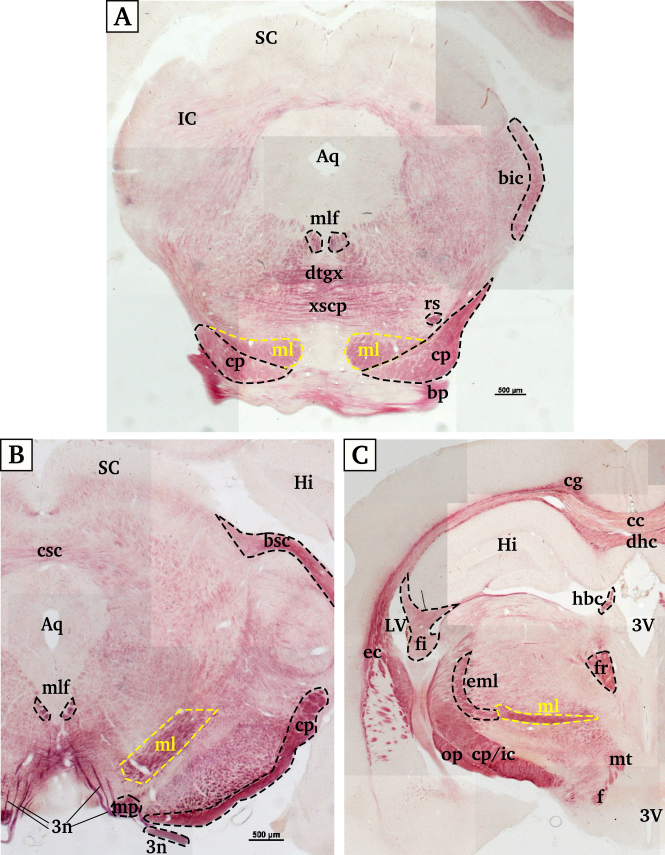
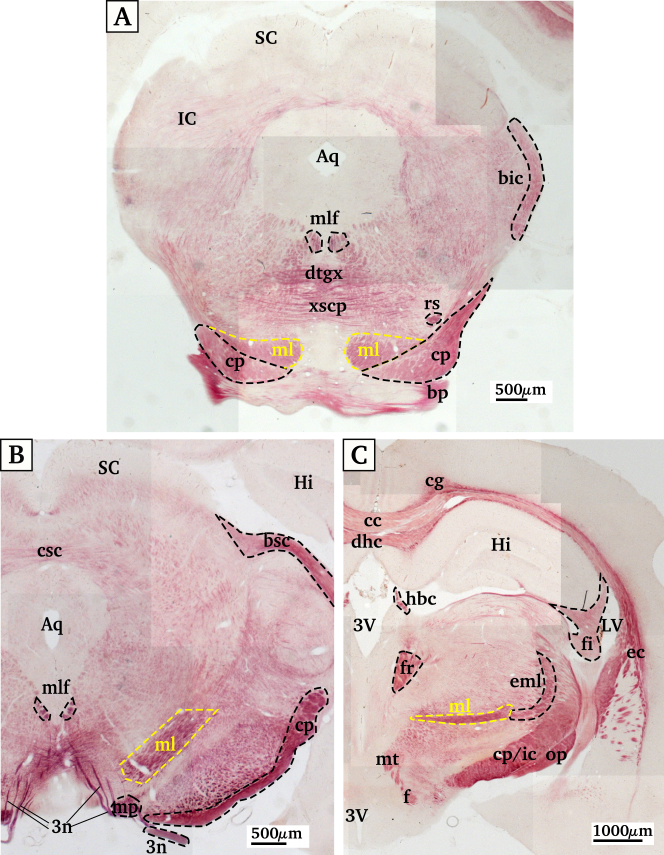
letzter commit vor dem wochenende.  hab die eine Abbildung gemacht und den medialen lemniscus.

diff --git a/main.tex b/main.tex
@@ -156,6 +156,7 @@ Axio Vision (AxioVs40 4.8.2.0, Copyright 2006-2010, Carl zeiss MicroImaging GmBH
 \section{Allgemeine sensorische Bahnen}
 Dieses Kapitel behandelt die allgemeine Sensorik \index{Sensorik !allgemein} die im Gegensatz zu speziellen Sensorik (Kapitel~ \ref{sec:spezsens}) steht. In der allgemeine Sensorik sind die Sinne zusammen gefasst welche über den ganzen Körper verteilt sind, dazu gehören unter anderem die Somatosensorik \index{Sensorik !Somato-} die Propriozeption \index{Propriozeption} und die Viszerosensorik \index{Sensorik !Viszero-}\cite[Kap. 22]{kandel2013principles}. Die spezielle Sensorik \index{Sensorik !speziell} fasst die Sinne zusammen welche auf Grund der Cephalisation bei Säugern nach vorne in den Kopf verlagert sind.
 \\
+\noindent
 Die Somatosensorik zeichnet sich durch die Repräsentation der direkten äußeren Welt und der inneren Welt aus. Bei der Repräsentation der Außenwelt unterscheidet man bei Säugetieren zwischen zwei Rezeptorsystemen. Zum einen die haarlose Haut in den Handinnenflächen, an der Fußunterseite und an den Lippen und der Nase, zum anderen die behaarte Haut mit hoch spezialisierten Tastsinneszellen innerviert durch die Bewegungen des Follikels auf den Blutsinus \index{Blutsinus} der Vibrissen.  \index{Sinushaar} \cite{paxinos2014rat}
 Die Propriozeption codiert die Informationen der relative Position unserer Extremitäten und anderer Körperteile im Raum und bildet in den Vorderextremitäten die Grundlage für abstrakte Wahrnehmung von Objektgrößen und Gewicht. Ein weiteren Bereich in der Somatosensorik bildet der Sinn welcher Schmerzen und Temperatur verarbeitet. \cite{paxinos2014rat}
 Im Weiteren wird am Beispiel der Ratte näher auf die unterschiedlichen Systeme eingegangen und wodurch diese sich genau unterscheiden. 
@@ -174,43 +175,44 @@ Die Nervenfasern der Propriozeption sind dicke, myelinisierte A$\beta$ Nerven de
 Die Nervenfasern eines Hautgebiets werden zu einem peripheren Nervenstrang gebündelt und ziehen in das Spinalganglion innerhalb des Wirbelkanals. Die Zellkörper der Nervenfasern liegen in diesem Spinalganglion und sind umgeben von speziellen Gliazellen. Zwischen den Nervenzellen verlaufen fenstrierte Kapillaren und versorgen die Nervenfasern mit den nötigen Nährstoffen. 
 
 \subsubsection*{Rückenmark}
-Die Axone der Nerven ziehen weiter in die Wirbelsäule. Da hier keine synaptische Verschaltung statt findet, ziehen die Axone direkt in die weiße Substanz des Rückenmarks und steigen parallel zum Verlauf der Wirbelsäule auf. Die Axone unterhalb des sechsten thorakalen Segments (T6) bilden den \textit{Fasciculus gracilis} \index{Fasciculus !gracilis} und die Axone oberhalb des sechsten Thorakalsegments (T6) formen den \textit{Fasciculus cuneatus} \index{Fasciculus !cueatus} im dorsalen Teil der weißen Substanz des Rückenmarks (Abb.~\ref{fig:bahnen_rueckenmark}) \cite[Kap.~8]{paxinos2014rat}. \textit{F.~gracilis} und \textit{F.~cuneatus} bilden somit die wichtigste aufsteigende Bahn für die sensorischen Informationen aus dem Tastsinn und der Eigenwahrnehmung hinauf in den Hirnstamm. 
-Die Trennung zwischen \textit{F.~gracilis} und \textit{F.~cuneatus} ist wichtig, da die sie in zwei anatomisch unterschiedlichen Kernen des Hirnstamms terminieren. Sie bilden zusammen mit anderen kleineren Bahnen den Hinterstrang \cite[Kap.~22]{kandel2013principles}. 
+Die Axone der Nerven ziehen weiter in die Wirbelsäule. Da hier keine synaptische Verschaltung statt findet, ziehen die Axone direkt in die weiße Substanz des Rückenmarks und steigen parallel zum Verlauf der Wirbelsäule auf. Die Axone unterhalb des sechsten thorakalen Segments (T6) bilden den \textit{Fasciculus gracilis} \index{Fasciculus !gracilis} und die Axone oberhalb des sechsten Thorakalsegments (T6) formen den \textit{Fasciculus cuneatus} \index{Fasciculus !cueatus} im dorsalen Teil der weißen Substanz des Rückenmarks (Abb.~\ref{fig:bahnen_rueckenmark}) \cite[Kap.~8]{paxinos2014rat}. F.~gracilis und F.~cuneatus bilden somit die wichtigste aufsteigende Bahn für die sensorischen Informationen aus dem Tastsinn und der Eigenwahrnehmung hinauf in den Hirnstamm. 
+Die Trennung zwischen F.~gracilis und F.~cuneatus ist wichtig, da die sie in zwei anatomisch unterschiedlichen Kernen des Hirnstamms terminieren. Sie bilden zusammen mit anderen kleineren Bahnen den Hinterstrang (eng.: dorsal column) \cite[Kap.~22]{kandel2013principles}. 
 
 \begin{figure}[H]
     \centering
     \includegraphics[width = \textwidth] {pictures/somatosensory/aufabsteigendeBahnen_Rueckenmark.png}
-    \caption[Auf- und Absteigende Bahnen im Rückenmark]{\textbf{Auf- und Absteigende Bahnen im Rückenmark}\\ Zur besseren Veranschaulichung der Bahnen sind die Bahnen in der Abbildung nach absteigenden Bahnen auf der linken Seite und absteigenden Bahnen auf der rechten Seite aufgeteilt. Beide Gruppen kommen jeweils gespiegelt auch auf der anderen Seite vor.}
+    \caption[Auf- und Absteigende Bahnen im Rückenmark]{\textbf{Auf- und Absteigende Bahnen im Rückenmark}\\ Zur besseren Veranschaulichung der Bahnen sind die Bahnen in der Abbildung nach absteigenden Bahnen auf der linken Seite und absteigenden Bahnen auf der rechten Seite aufgeteilt. Beide Gruppen kommen jeweils gespiegelt auch auf der anderen Seite vor.\\
+    \cite{crossman2014neuroanatomy} S.~79}
     \label{fig:bahnen_rueckenmark}
 \end{figure}
 
 \subsubsection*{Nucleus gracilis und Nucleus cuneatus - Medulla}
 
-Die Axone des \textit{Fasciculus~gracilis} terminieren im \textit{Nucleus~gracilis} in der Medulla. Auf gleicher Ebene der Medulla enden auch die Axone des \textit{Fasciculus~cuneatus} im \textit{Nucleus~cuneatus}. Zusammen werden die beiden Kerne auch Hinterstrangkerne oder im englischen dorsal column nuclei genannt. \textcolor{red}{Hier kann gut ein Bild der medulla eingefügt werden auf dem man die beiden Nuclei sieht und auf welcher ebene sie mit anderen markanten Strukturen der Medulla liegen. vllt gibt es ja auch noch ein bild auf dem gleichzeitig der mediale leminiscus zu sehen ist. Ich sollte auf jedenfall dann beschreiben wie wo sie zu finden sind welche strukturen auch noch dort liegen und anhand was man überhaupt weis dass das die medulla ist -- ventrikel!!!!!}
-
-
+Die Axone des \textit{Fasciculus~gracilis} terminieren im \textit{Nucleus~gracilis} in der Medulla. Auf gleicher Ebene der Medulla enden auch die Axone des \textit{Fasciculus~cuneatus} im \textit{Nucleus~cuneatus}. Zusammen werden die beiden Kerne auch Hinterstrangkerne oder im englischen dorsal column nuclei genannt. in Abbildung~\ref{fig:nucleus_cuneatus} kann man den Nucleus~cuneatus (gelb) sehen. Der Nucleus liegt dorsal des Kerngebiets des Trigeminusnervs (Sp5I) und lateral des vierten Ventrikels (4V). Die Abbildung zeigt nicht den Nucleus gracilis.
+\\
+\noindent
 Beide Nuclei sind zylindrisch geformt und in rostrocaudaler Richtung ausgedehnt. Die afferenten Neuronen aus einer Hautregion enden in der rostrocaudalen Ausdehnung auf einer Linie und verschiedene Hautregionen werden lateral-medial repräsentiert. Die somatosensorische Repräsentation auf dieser Ebene gleicht einem auf dem Rücken liegenden, kopflosen Homunculus. Dabei liegen die distalen Körperregionen lateral und die proximalen Hautregionen medial in den Nuclei. Die taktilen und propriozeptiven Informationen des Kopfes (Kap.~\ref{sec:somatokopf}) werden in angrenzenden \textit{Nucleus principalis nervi trigemini} repräsentiert \cite[Kap.~22]{kandel2013principles}. 
 \\
 \begin{figure}[H]
     \centering
     \includegraphics{pictures/somatosensory/nucleus_cuneatus.png}
     \caption[Lage des \textit{Nucleus cuneatus} in der Medulla]{\textbf{Lage des \textit{Nucleus cuneatus} in der Medulla}\\
-    Nissel-Färbung der Rattenhirns auf der Höhe der Medulla. }
+    Nissel-Färbung der Rattenhirns auf der Höhe der Medulla (N02\_3R). Der Ausschnitt zeigt die rechte Seite vom Zentralkanal (cc) bis zum Trigeminusnerv (sp5). Oberhalb des Kerngebiets des Trigeminusnervs (SP5I) liegt der Nucleus~cuneatus (Cu). Die Schnittebene beinhaltet sowohl Teile der Medulla, daran zu erkennen, dass der vierter Ventrikel (4V) angeschnitten ist, als auch Teile des Rückenmarks, daran zu erkennen, dass der Zentralkanal (cc) zu sehen ist. Weitere Kerngebiete sind: der dorsaler Kern des Nervus vagus(10), Kern des Nervus hypoglossus (12), die untere Olive (IO) und der Nucleus reticularis lateralis (LRt). Ebenfalls zu sehen sind: die Pyramidenbahn (py), der dorsaler spinocerebellarer Tract/olivocerebraller Tract (dsc/oc) und der Trigeminusnerv (sp5).}
     \label{fig:nucleus_cuneatus}
 \end{figure}
-\textcolor{red}{Bilder vom Verlauf des medialen lemniscus auf der höhe der medulla an zwei stellen und dem midbrain am besten ähnlich wie das schema}
 
-\subsubsection*{medialer Lemniscus}
-In den Hinterstrangkernen ist die erste synaptische Verbindung im lemniskalen System. Von den primär affrenten Axonen aus dem Rückenmark wird das Signal an die Nervenfasern des \textit{medialen~Lemniscus} weiter geleitet. Diese kreuzen die Mittellinie auf der Höhe der Medulla und verlaufen anschließend contralateral \cite[Kap.~22]{kandel2013principles}. 
-\textcolor{red}{Der \textit{mediale~Lemniscus} liegt ... und zieht von der Medulla bis in den ... . Die Veränderung der Lage des \textit{medialen~Lemniscus} kann man in Abbildung ... verfolgen. Er beginnt ... und zieht sich dann an .. vorbei und liegt auf der Höhe der Pons in ... Lage. Von dort zieht sich der \textit{mediale~Lemniscus} bis in .. auf der Höhe von .... \\ einfach auch den pathway zur hand ziehen und zwischen den eigenen bildern und dem Pathway vergleichen und sagen wo man ist.}
-\\
-\\
-\\
+\subsubsection*{Der Mediale Lemniscus}
+In den Hinterstrangkernen ist die erste synaptische Verbindung im lemniskalen System. Von den primär afferenten Axonen aus dem Rückenmark wird das Signal an die Nervenfasern des \textit{medialen~Lemniscus} weiter geleitet. Diese kreuzen die Mittellinie auf der Höhe der Medulla und verlaufen anschließend contralateral \cite[Kap.~22]{kandel2013principles}. 
+Der \textit{mediale~Lemniscus} liegt ventral-medial in der Medulla und zieht von der Medulla bis in den Thalamus im Diencephalon. Die Veränderung der Lage des \textit{medialen~Lemniscus} \index{medialer Lemniscus} kann man in Abbildung \ref{fig:medialer_lemniscus} verfolgen. Er beginnt schon auf der Höhe des Nucleus cuneatus (Abb.~\ref{fig:somato_pathway}) und zieht sich dann ventral-medial unterhalb des Aqueduct (Abb.~\ref{fig:medialer_lemniscus}A) weiter nach rostral. Dabei verändert er seine Lage in sofern, dass er von ventral-medial nach medial-lateral (Abb.~\ref{fig:medialer_lemniscus}B) zieht. Der mediale~Lemniscus zieht sich auf der Höhe des dritten Ventrikels (Abb.~\ref{fig:medialer_lemniscus}C) zentral im Diencephalon bis in den Thalamus.
+
 \begin{figure}[H]
     \centering
-    \includegraphics[width = \textwidth] {pictures/somatosensory/medial_lemniscus.png}
-    \caption[Verlauf des \textit{medialen Lemniscus}]{\textbf{Verlauf des \textit{medialen Lemniscus}}\\
-    Faserschnitte auf der Höhe des Mesencephalons (A \& B) und des Diencephalons (C).}
+    \includegraphics[width = 0.9\textwidth] {pictures/somatosensory/medial_lemniscus.png}
+    \caption[Verlauf des \textit{medialen Lemniscus}]{\small{\textbf{Verlauf des \textit{medialen Lemniscus}}\\
+    Faserschnitte auf der Höhe des Mesencephalons (A \& B) und des Diencephalons (C). Man kann den Verlauf des medialen Lemniscus in der Schnittserie über 3450~$\mu$m verfolgen.\\
+    \textbf{A} (F14\_4P): Colliculus superior (SC), Colliculus inferior (IC), Aqueduct (Aq), Brachium des IC (bic), brachia pontis (bp, eng.: middle cerebellar peduncle), Großhirnstiele (Pedunculi cerebri) (cp), dorsal tegmental decussation (dtgx), Fasciculus longitudinalis medialis (mlf), rubrospinaler tract (rs), decussation des SC peduncels (xscp).
+    \textbf{B} (F17\_3P): Nervus oculomotorius (3n), Hippocampus (Hi), Brachium des SC (bsc), Kommissur des SC (csc), mammillary peduncle (mp).
+    \textbf{C} (F20\_3P): dritter Ventrikel (3V), lateraler Ventrikel (LV), zentrale Kommissur (cc), cingulum (cg), dorsale Hippocampuskommissur (dhc), Capsula externa (ec), external medullary lamina (eml), Fornix (f), Fimbria (fi), fasciculus retroflexus (fr), Commissura habenularum (hbc), Kapsula interna (ic), mammillothalamic tract (mt), optischer tract (op)}}
     \label{fig:medialer_lemniscus}
 \end{figure}
 
@@ -241,7 +243,7 @@ Die Informationen aus den tieferen Hautschichten von den Pacini- und Ruffini- Re
     \centering
     \includegraphics{pictures/somatosensory/pathway_somatosensory2.png}
     \caption[Aufsteigende Bahnen der Somatosensorik]{\textbf{Aufsteigende Bahnen der Somatosensorik}\\
-    Die aufsteigenden Bahnen der Somatosensorik sind getrennt in das lemniskale (rot) und das anterolaterale (braun) System. Beginnend im Rückenmark bis zu zum primären somatosensorischen Cortex posterior vom \textit{Sulcus centralis}.\textcolor{red}{genauere beschreibung der einzelnen Sationen???}\\
+    Die aufsteigenden Bahnen der Somatosensorik sind getrennt in das lemniskale (rot) und das anterolaterale (braun) System. Beginnend im Rückenmark bis zu zum primären somatosensorischen Cortex posterior vom \textit{Sulcus centralis}.\\
     \cite[Kap.~22]{kandel2013principles}}
     \label{fig:somato_pathway}
 \end{figure}
@@ -291,8 +293,9 @@ Diese synaptische Verbindung verbindet die Nozizeptoren mit den spinothalamische
 
 \begin{figure}
         \centering
-        \includegraphics{pictures/somatosensory/graymatter2.png}
-        \caption{Caption}
+        \includegraphics{pictures/somatosensory/gray_matter.png}
+        \caption[Schichten in der grauen Substanz des Rückenmarks]{\textbf{Schichten in der grauen Substanz des Rückenmarks} Die Abbildung zeigt schematisch die rechte Seite des Rückenmarks mit weißer und grauer Substanz. Die Schichten der grauen Substanz beginnen im Hinterhorn mit Schicht I und gehen bis Schicht VIII im Vorderhirn. Die Schicht XI liegt in Schicht VIII und Schicht X umgibt den Zentralkanal.\\
+        \cite{crossman2014neuroanatomy} S.~74}
         \label{fig:graymatter}
     \end{figure}
     
@@ -481,6 +484,43 @@ Die Spiralganglien verdanken ihren Namen der spiralförmigen Struktur der Cochle
 \newpage
 \section{Integrative Systeme}
 \subsection{Limbisches System und Hippocampus}
+
+\subsubsection*{Info zum Hippocampus}
+
+\begin{itemize}
+
+\item \textcolor{blue}{Hallo, ich hatte für meinen Teil was über den Hippocampus gesucht... Aber ich nehme nur die minimale Info rein, aber vielleicht kannst du was davon gebrauchen.. '' oder "" sind wörtliche Zitate. Die Quellen sollten irgendwo in den referneces hier zu finden sein :) LG Jule}
+
+\item "Der Hippocampus (griechisch für„Seepferdchen“) hat für Lernen und Gedächtnis eine große Bedeutung" \cite[Kap.~7]{neurowissenschaften_baer}
+	
+\item 'The rat HF looks like a C-shaped structure (Fig. 2). Its long axis extends from the septal nuclei of the basal forebrain rostrodorsally, over and behind the diencephalon, into the caudoventral portion of the hemisphere, where HF abuts the rostrally adjacent amygdaloid complex' (Paxinos, Kap.~20)
+
+\item 'Der Hippecampus liegt zum größten Teil im Schläfenlappen an der Medialwand des Seitenventrikeltmterhorns ( >- Abb. 9.16). Mit seinem rostralen Endstück bildet er dort eine tatzenähnliche Struktur (Pes hippocampi, >- Abb. 9.16, 1). Nach hinten oben reicht er, entsprechend der Rotationsbewegung der Hemisphären in der Embryonalentwickltmg, in einem Bogen bis zum kaudalen Ende des Balkens (Corpus callosurn). Von dort aus setzt er sich dann unterhalb des Balkens in die Faserstruktur
+des Fomix fort( >- Abb. 9. 16, 4- 6). Der Fomix zieht in
+einem Bogen über dem III. Ventrikel nach rostral m1d ventral weiter und endet in den Corpora mammillaria.' (trepel, Kap.~9)
+
+\item Afferenzen:\\
+'Afferenzen erhält der Hippocampus besonders zahlreich über den Tractus perforans von der medial des Hippecampus im Gyrus parabippocampalis (auch: Gyrus hippocampi) liegenden Area entorhinalis (auch: Regio entorhinalis). Über diese Region fließen dem Hippocampus u. a. modulierte sensorische lmpulse aus dem Neokortex und dem Rhinencephalon zu. Weiterhin erhält der Hippecampus afferente Fasern aus dem Thalamus, dem Gyrus cinguli, dem Corpus amygdaloideuro und über den Fornix aus dem Septum.' (trepel, Kap.~9)
+
+\item Efferenzen:\\
+'Nahezu alle Efferenzen des Hippocampus verlaufen im Fornix. Dieser gibt auf seinem Weg Faserzüge an das Septum, Corpus amygdaloideum sowie den Hypothalamus ab m1d endet mit dem Hauptteil der Fasern in den Corpora maillaria. Hierbei bildet sich der sog. Papez-Neuronenkreis ( >- Abb. 9.17): Der Hippecampus projiziert über den Fornix in die Corpora mammillaria.' (trepel, Kap.~9)
+
+\item FUNKTION: 'Neben der sehr wichtigen Funktion für die Gedächtnisbildung wird der Hippocampus als Bestandteil des limbischen Systems mit endokrinen, vegetativen und emotionalen Vorgängen in Zusammenhang gebracht.' (trepel, Kap.~9)
+
+\item 'der Hippocampus ist für den transfer von Gedächtnisinhalten vom kurzzeit- zum langzeitgedächtnis esentiell' \cite[Kap.~6]{storch2012lehrbuchzoo}
+
+\item gehört zum lymbischen system \cite[Kap.~6]{storch2012lehrbuchzoo}
+
+\item gehört zu den cortikalen arealen/gebieten  \cite[Kap.~6]{storch2012lehrbuchzoo}
+
+\item the hippocampus is involved with aspects of memory storage (Kandel, Kap.1???)
+
+\item 'The hippocampal formation includes the hippocampus, dentate gyrus, and subiculum. The hippocampus and associated cortical regions form the /oor of the temporal horn of the lateral ventricle (Figure 15–12). Together these structures are responsible for the formation of long-term memories about our daily experiences, so-called episodic memories, but are not the permanent storage site of these memories (see Chapter 65).Damage to the hippocampus interferes with people’s ability to form new memories but does not signi0-cantly impair the ability to retrieve old memories.' (Kandel, Kap.~15)
+
+\item 'the hippocampus is thought to store memories temporarily through long-term synaptic plasticity. The hippocampus then transfers these memories to neocortex by inducing a replay in parietal, temporal, and frontal association cortex of activity patterns elicited by recent events.' (Kandel, Kap.~18)
+
+\end{itemize}
+
 \subsection{Basalganglien}
 
 \newpage
